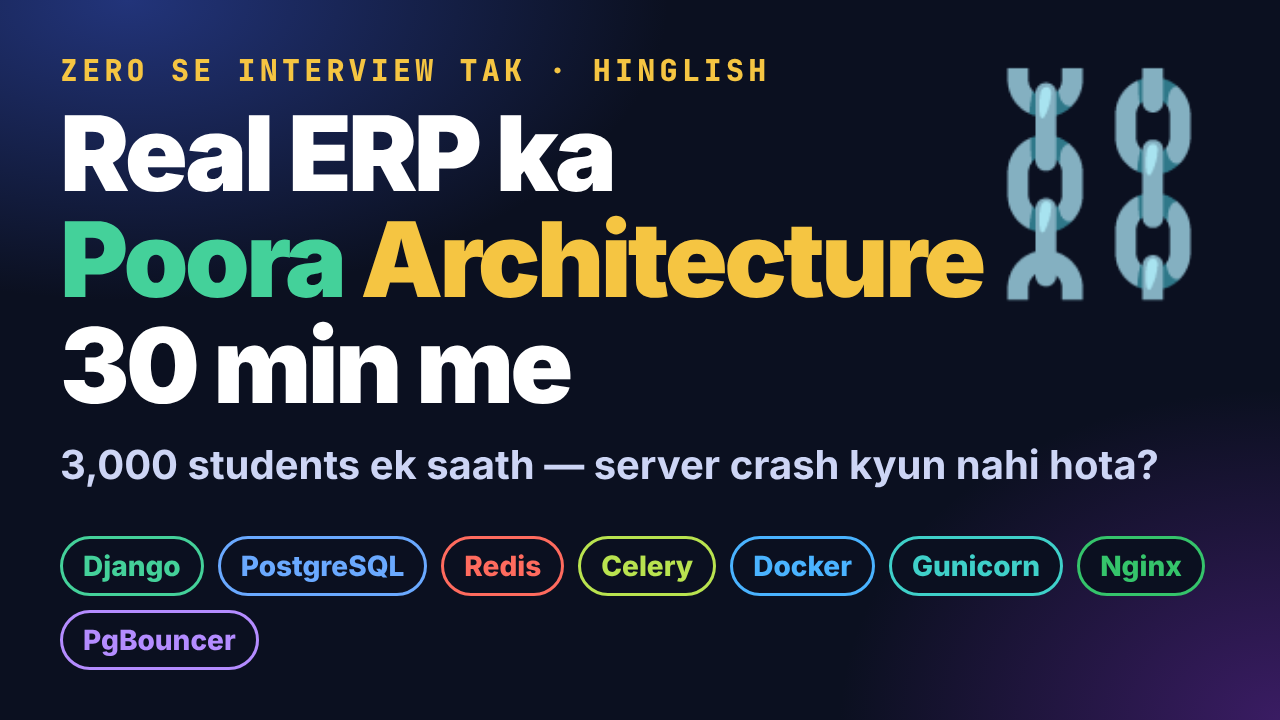
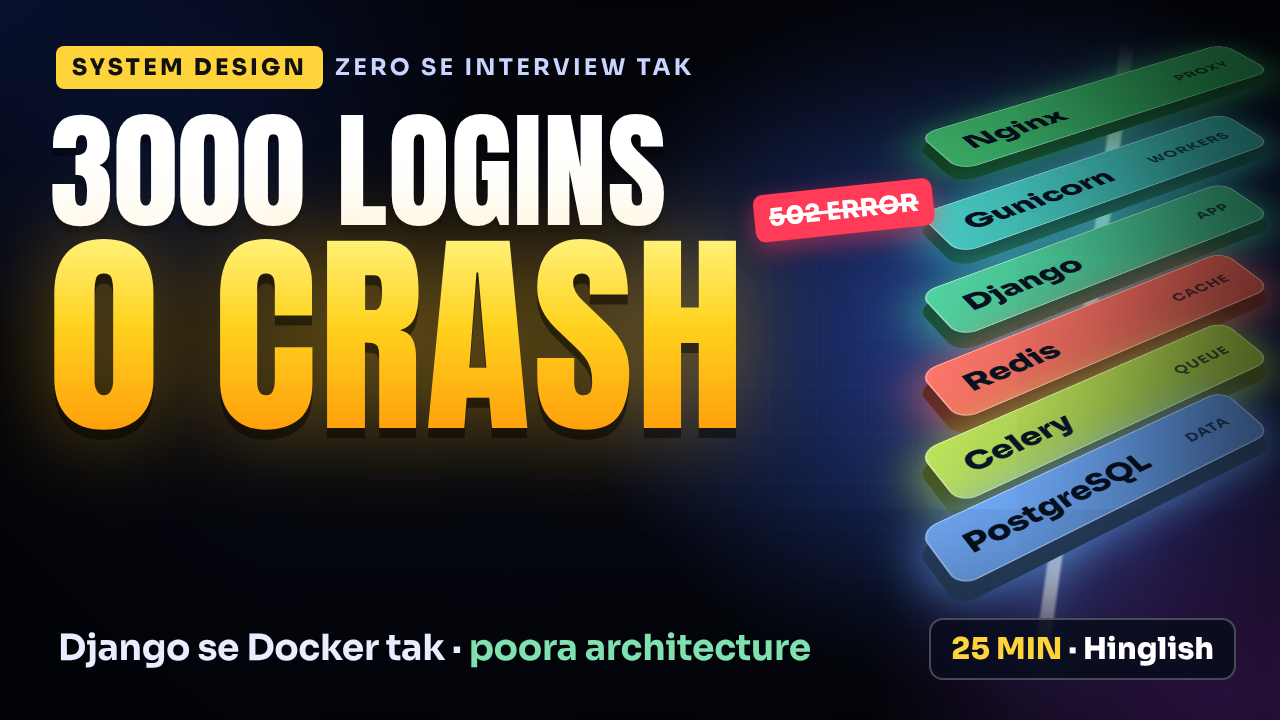
New thumbnail
Claude-Session: https://claude.ai/code/session_0133eXqLsSraEV1dtyTjtboL

diff --git a/video/build/thumb.html b/video/build/thumb.html
@@ -1,13 +1,57 @@
-<!doctype html><meta charset="utf-8"><style>
-body{margin:0;width:1280px;height:720px;overflow:hidden;font-family:Inter,sans-serif;color:#fff;background:radial-gradient(900px 500px at 10% 0%,#22347a,transparent 60%),radial-gradient(800px 600px at 100% 100%,#3a1c63,transparent 55%),#0b1020}
-.k{position:absolute;left:60px;top:50px;font:800 30px 'JetBrains Mono';letter-spacing:.14em;color:#f5c542}
-h1{position:absolute;left:60px;top:100px;margin:0;font-size:104px;line-height:1.02;font-weight:900;letter-spacing:-.035em}
-h1 b{color:#44d19a}h1 i{font-style:normal;color:#f5c542}
-.s{position:absolute;left:60px;top:440px;font-size:40px;font-weight:700;color:#cdd5f5}
-.r{position:absolute;left:60px;bottom:50px;display:flex;gap:14px;flex-wrap:wrap;width:1160px}
-.r span{font:800 28px Inter;padding:10px 20px;border-radius:99px;border:3px solid var(--c);color:var(--c);background:#0b1020}
-.e{position:absolute;right:50px;top:60px;font-size:210px;font-family:'Noto Color Emoji'}
-</style><div class="k">ZERO SE INTERVIEW TAK · HINGLISH</div>
-<h1>Real ERP ka<br><b>Poora</b> <i>Architecture</i><br>30 min me</h1>
-<div class="s">3,000 students ek saath — server crash kyun nahi hota?</div><div class="e">⛓</div>
-<div class="r"><span style="--c:#44d19a">Django</span><span style="--c:#6aa9ff">PostgreSQL</span><span style="--c:#ff6b5e">Redis</span><span style="--c:#b9e34f">Celery</span><span style="--c:#4ab3ff">Docker</span><span style="--c:#3fd0c9">Gunicorn</span><span style="--c:#35c46b">Nginx</span><span style="--c:#b48cff">PgBouncer</span></div>
+<!doctype html><meta charset="utf-8">
+<style>
+@font-face { font-family: Anton; src: url(https://cdn.jsdelivr.net/npm/@fontsource/anton/files/anton-latin-400-normal.woff2); }
+@font-face { font-family: Sora; font-weight: 100 800; src: url(https://cdn.jsdelivr.net/npm/@fontsource-variable/sora/files/sora-latin-wght-normal.woff2); }
+* { box-sizing: border-box; margin: 0; }
+body { width: 1280px; height: 720px; overflow: hidden; background: #05070f; font-family: Sora, sans-serif; color: #fff; position: relative; }
+.bg { position: absolute; inset: 0;
+  background:
+    radial-gradient(620px 520px at 78% 46%, rgba(64, 110, 255, .55), transparent 70%),
+    radial-gradient(520px 420px at 96% 96%, rgba(170, 70, 255, .45), transparent 70%),
+    radial-gradient(700px 500px at 0% 0%, rgba(20, 40, 110, .9), transparent 70%),
+    #05070f; }
+.grid { position: absolute; inset: 0; opacity: .5;
+  background-image: linear-gradient(rgba(120, 150, 255, .10) 1px, transparent 1px), linear-gradient(90deg, rgba(120, 150, 255, .10) 1px, transparent 1px);
+  background-size: 48px 48px; mask-image: radial-gradient(700px 520px at 78% 50%, #000, transparent 75%); }
+.vig { position: absolute; inset: 0; box-shadow: inset 0 0 220px 60px rgba(0, 0, 0, .75); }
+.tag { position: absolute; left: 56px; top: 46px; display: flex; gap: 12px; align-items: center; font-weight: 700; font-size: 23px; letter-spacing: .14em; }
+.tag b { background: #ffd43b; color: #111; padding: 7px 16px; border-radius: 8px; font-weight: 800; }
+.tag span { color: #c9d4ff; }
+h1 { position: absolute; left: 50px; top: 112px; font-family: Anton, sans-serif; font-weight: 400; line-height: .92; text-transform: uppercase; }
+h1 .a { display: block; font-size: 128px; letter-spacing: .005em; color: #fff; text-shadow: 0 8px 0 rgba(0, 0, 0, .35); }
+h1 .b { display: block; font-size: 218px; letter-spacing: .01em; margin-top: 6px;
+  background: linear-gradient(180deg, #fff27a 0%, #ffd21f 45%, #ff9d0a 100%); -webkit-background-clip: text; background-clip: text; color: transparent;
+  filter: drop-shadow(0 10px 0 rgba(0, 0, 0, .45)) drop-shadow(0 0 46px rgba(255, 190, 30, .45)); }
+.sub { position: absolute; left: 58px; bottom: 50px; font-size: 36px; font-weight: 700; color: #e8edff; letter-spacing: -.01em; }
+.sub i { font-style: normal; color: #7fe0b0; }
+
+/* layered stack */
+.stack { position: absolute; right: -8px; top: 60px; width: 430px; height: 540px; perspective: 1400px; transform: scale(.86); transform-origin: top right; }
+.pl { position: absolute; left: 0; width: 430px; height: 96px; border-radius: 22px; transform: rotateX(54deg) rotateZ(-34deg); transform-origin: center;
+  background: linear-gradient(135deg, color-mix(in srgb, var(--c) 92%, #fff), color-mix(in srgb, var(--c) 70%, #000));
+  box-shadow: 0 0 0 2px rgba(255, 255, 255, .35) inset, -14px 22px 0 color-mix(in srgb, var(--c) 38%, #000), -14px 22px 60px color-mix(in srgb, var(--c) 70%, transparent), 0 0 80px color-mix(in srgb, var(--c) 45%, transparent);
+  display: flex; align-items: center; padding-left: 34px; font: 800 40px Sora; color: #06101f; letter-spacing: -.01em; }
+.pl small { margin-left: auto; margin-right: 30px; font: 700 20px Sora; opacity: .7; letter-spacing: .08em; }
+.bolt { position: absolute; right: 190px; top: 40px; width: 14px; height: 640px; border-radius: 10px; transform: rotate(8deg);
+  background: linear-gradient(180deg, transparent, #fff 18%, #9fd0ff 50%, #fff 82%, transparent); filter: blur(1px) drop-shadow(0 0 22px #6aa9ff) drop-shadow(0 0 60px #6aa9ff); opacity: .9; }
+.x { position: absolute; left: 752px; top: 196px; transform: rotate(-6deg) scale(.82); transform-origin: left top; z-index: 5; font: 900 30px Sora; padding: 10px 18px; border-radius: 12px; background: #ff3b57; color: #fff; box-shadow: 0 10px 30px rgba(255, 59, 87, .5); letter-spacing: .02em; }
+.x s { text-decoration-thickness: 4px; }
+.dur { position: absolute; right: 44px; bottom: 40px; font: 800 30px Sora; background: rgba(8, 12, 28, .85); border: 2px solid rgba(255, 255, 255, .25); padding: 10px 20px; border-radius: 14px; }
+.dur b { color: #ffd43b; }
+</style>
+<div class="bg"></div><div class="grid"></div>
+<div class="bolt"></div>
+<div class="stack">
+  <div class="pl" style="top:0;--c:#35c46b">Nginx<small>PROXY</small></div>
+  <div class="pl" style="top:88px;--c:#3fd0c9">Gunicorn<small>WORKERS</small></div>
+  <div class="pl" style="top:176px;--c:#44d19a">Django<small>APP</small></div>
+  <div class="pl" style="top:264px;--c:#ff6b5e">Redis<small>CACHE</small></div>
+  <div class="pl" style="top:352px;--c:#b9e34f">Celery<small>QUEUE</small></div>
+  <div class="pl" style="top:440px;--c:#6aa9ff">PostgreSQL<small>DATA</small></div>
+</div>
+<div class="vig"></div>
+<div class="tag"><b>SYSTEM DESIGN</b><span>ZERO SE INTERVIEW TAK</span></div>
+<h1><span class="a">3000 Logins</span><span class="b">0 Crash</span></h1>
+<div class="sub">Django se Docker tak · <i>poora architecture</i></div>
+<div class="x"><s>502 ERROR</s></div>
+<div class="dur"><b>25 MIN</b> · Hinglish</div>
